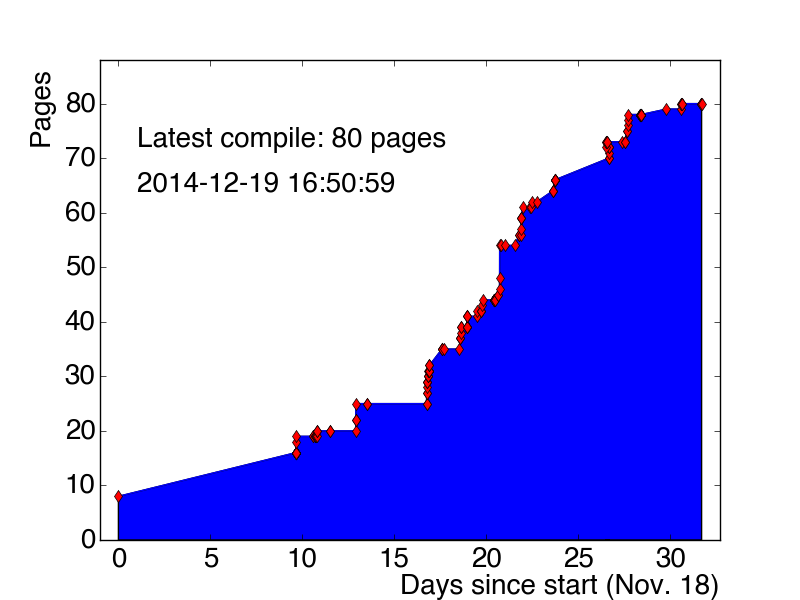
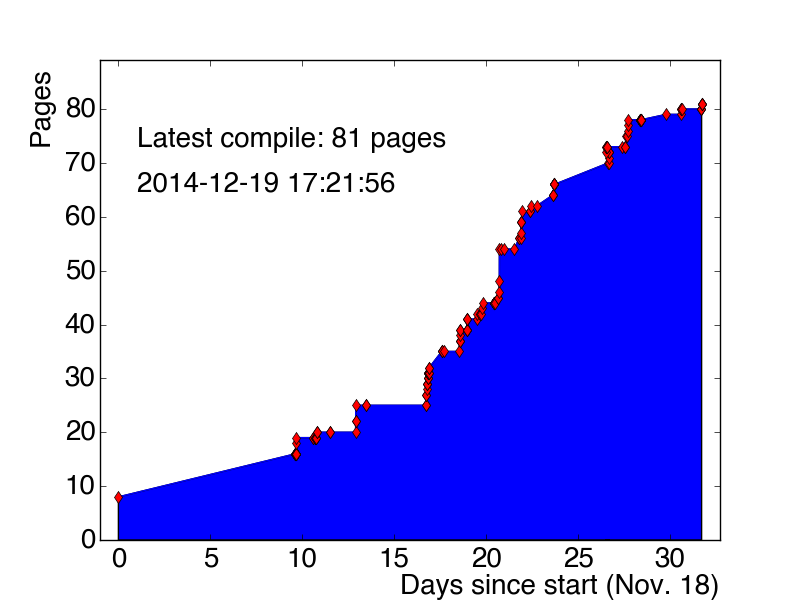
tau event display, update lepton pt spectrum

diff --git a/tex/taus.tex b/tex/taus.tex
@@ -29,6 +29,13 @@
 
 \begin{figure}[tp]
   \centering
+  \includegraphics[width=0.95\textwidth]{figures/tauperformance/vp1_3dcocktail_run182424_evt2582762_tttaumu}
+  \caption{Variables.}
+  \label{fig:taus-eventdisplay}
+\end{figure}
+
+\begin{figure}[tp]
+  \centering
   \includegraphics[width=0.48\textwidth]{figures/PERF-2013-06_tmp/centFrac_1p}
   \includegraphics[width=0.48\textwidth]{figures/PERF-2013-06_tmp/wideTrk_n_1p}
   \caption{Variables.}

diff --git a/figures.md b/figures.md
@@ -10,9 +10,9 @@
   0. Cross-sections (ATLAS plot)        :small_blue_diamond:
 0. [Tau leptons](tex/)                  :small_orange_diamond:
   0. Tau decay pie chart                :small_blue_diamond:
-  0. Lepton pt (W, Z, tau)              :small_red_triangle:
+  0. Lepton pt (W, Z, tau)              :small_blue_diamond:
   0. Lepton d0 (W, Z, tau)              :small_red_triangle:
-  0. Tau event display                  :small_red_triangle:
+  0. Tau event display                  :small_blue_diamond:
   0. Tau energy calibration             :small_red_triangle:
   0. Tau ID input variables             :small_orange_diamond:
   0. Tau ID ROC                         :small_orange_diamond:

diff --git a/pages.md b/pages.md
@@ -162,3 +162,8 @@
 + [2014-12-19-16h34m46s] 80
 + [2014-12-19-16h37m38s] 80
 + [2014-12-19-16h50m59s] 80
++ [2014-12-19-17h17m04s] 81
++ [2014-12-19-17h18m37s] 81
++ [2014-12-19-17h19m12s] 81
++ [2014-12-19-17h21m23s] 81
++ [2014-12-19-17h21m56s] 81
